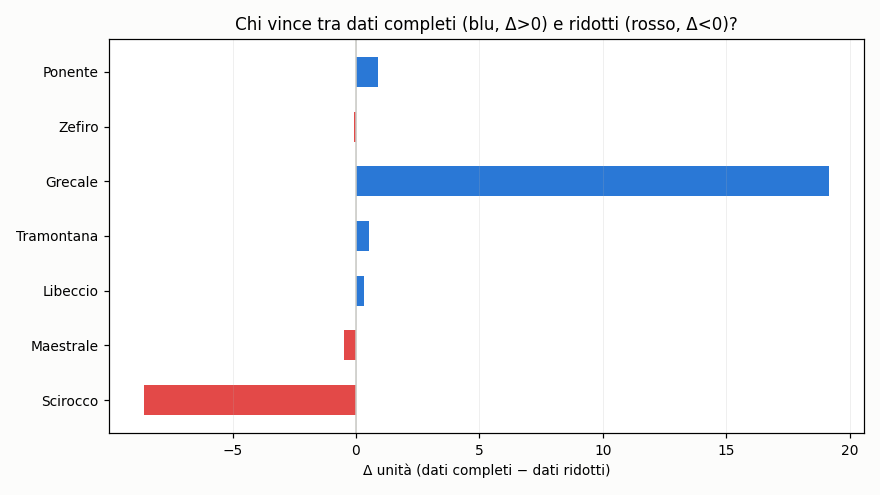
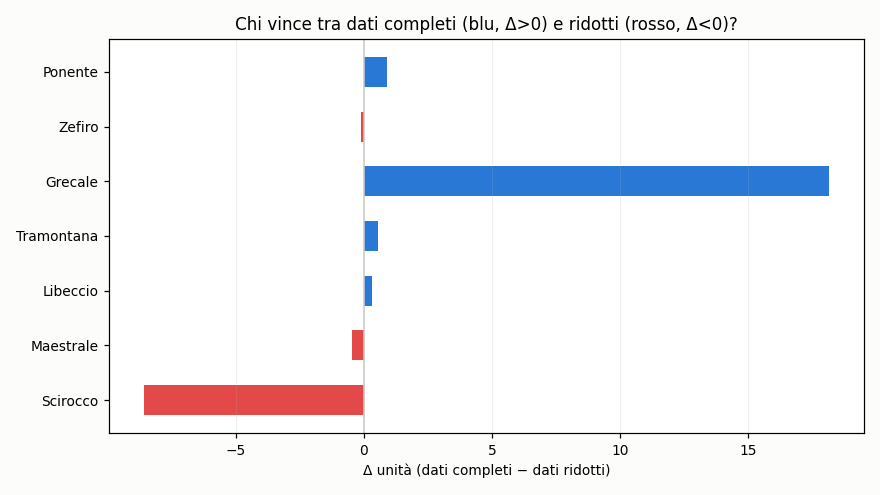
aggiornamento 2026-07-28 13:51 UTC

diff --git a/README.md b/README.md
@@ -37,9 +37,9 @@ scala in unità). Non indichiamo quale.
 
 ## Grafici
 
-![Coppie: dati completi vs ridotti](https://raw.githubusercontent.com/Kitem19/ippica-track-record/main/charts/equity_pairs.png?v=c96a4bdb)
+![Coppie: dati completi vs ridotti](https://raw.githubusercontent.com/Kitem19/ippica-track-record/main/charts/equity_pairs.png?v=18978985)
 
-![Delta per coppia](https://raw.githubusercontent.com/Kitem19/ippica-track-record/main/charts/coppie_delta.png?v=eb9723ed)
+![Delta per coppia](https://raw.githubusercontent.com/Kitem19/ippica-track-record/main/charts/coppie_delta.png?v=2c7721b3)
 
 ### Come leggere i grafici
 
@@ -60,7 +60,7 @@ _Poche giornate: numeri ancora rumorosi, si conclude a fine fase (31/7)._
 - **Maestrale**: in sostanziale pareggio — troppo presto per dire
 - **Libeccio**: in sostanziale pareggio — troppo presto per dire
 - **Tramontana**: in sostanziale pareggio — troppo presto per dire
-- **Grecale**: dati completi avanti di 19,2u
+- **Grecale**: dati completi avanti di 18,2u
 - **Zefiro**: in sostanziale pareggio — troppo presto per dire
 - **Ponente**: in sostanziale pareggio — troppo presto per dire
 
@@ -68,22 +68,22 @@ _Poche giornate: numeri ancora rumorosi, si conclude a fine fase (31/7)._
 
 | Sistema | Cassa (u) | P/L (u) | Selezioni | Escluse | Stato |
 |---|---|---|---|---|---|
-| Grecale | 18,9 | -1,1 | 332 | 4 | 🟢 |
+| Grecale | 17,9 | -2,1 | 333 | 4 | 🟢 |
 | Scirocco-B | 8,5 | -11,5 | 254 | 6 | 🟢 |
 | Maestrale-B | 0,0 | -20,0 | 100 | 267 | 🛑 |
-| Ponente | 0,0 | -20,0 | 213 | 46 | 🛑 |
+| Ponente | 0,0 | -20,0 | 213 | 47 | 🛑 |
 | Scirocco | 0,0 | -20,1 | 80 | 291 | 🛑 |
 | Grecale-B | 0,0 | -20,2 | 137 | 188 | 🛑 |
 | Tramontana | 0,0 | -20,3 | 45 | 332 | 🛑 |
 | Zefiro-B | 0,0 | -20,5 | 143 | 88 | 🛑 |
-| Maestrale | 0,0 | -20,5 | 104 | 287 | 🛑 |
-| Zefiro | 0,0 | -20,6 | 268 | 21 | 🛑 |
-| Libeccio | 0,0 | -20,6 | 181 | 191 | 🛑 |
-| Tramontana-B | 0,0 | -20,8 | 324 | 40 | 🛑 |
-| Libeccio-B | 0,0 | -20,9 | 119 | 206 | 🛑 |
+| Maestrale | 0,0 | -20,5 | 104 | 288 | 🛑 |
+| Zefiro | 0,0 | -20,6 | 268 | 22 | 🛑 |
+| Libeccio | 0,0 | -20,6 | 181 | 192 | 🛑 |
+| Tramontana-B | 0,0 | -20,8 | 324 | 41 | 🛑 |
+| Libeccio-B | 0,0 | -20,9 | 119 | 207 | 🛑 |
 | Ponente-B | 0,0 | -21,0 | 63 | 108 | 🛑 |
 
-_Aggiornato: 28/07 15:46_
+_Aggiornato: 28/07 15:51_
 ---
 *Nessuna delle informazioni qui pubblicate costituisce consiglio di gioco.
 Il gioco può causare dipendenza — 18+.*
